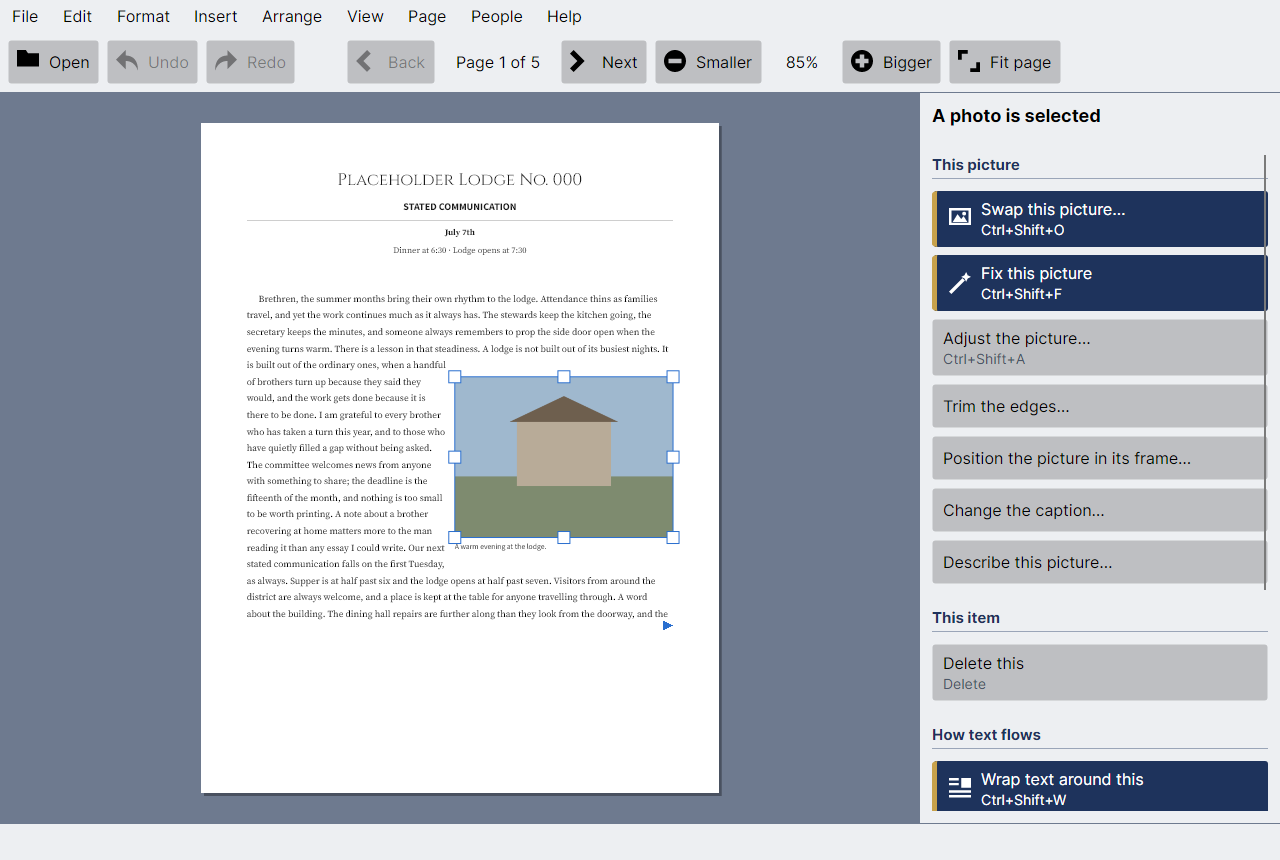
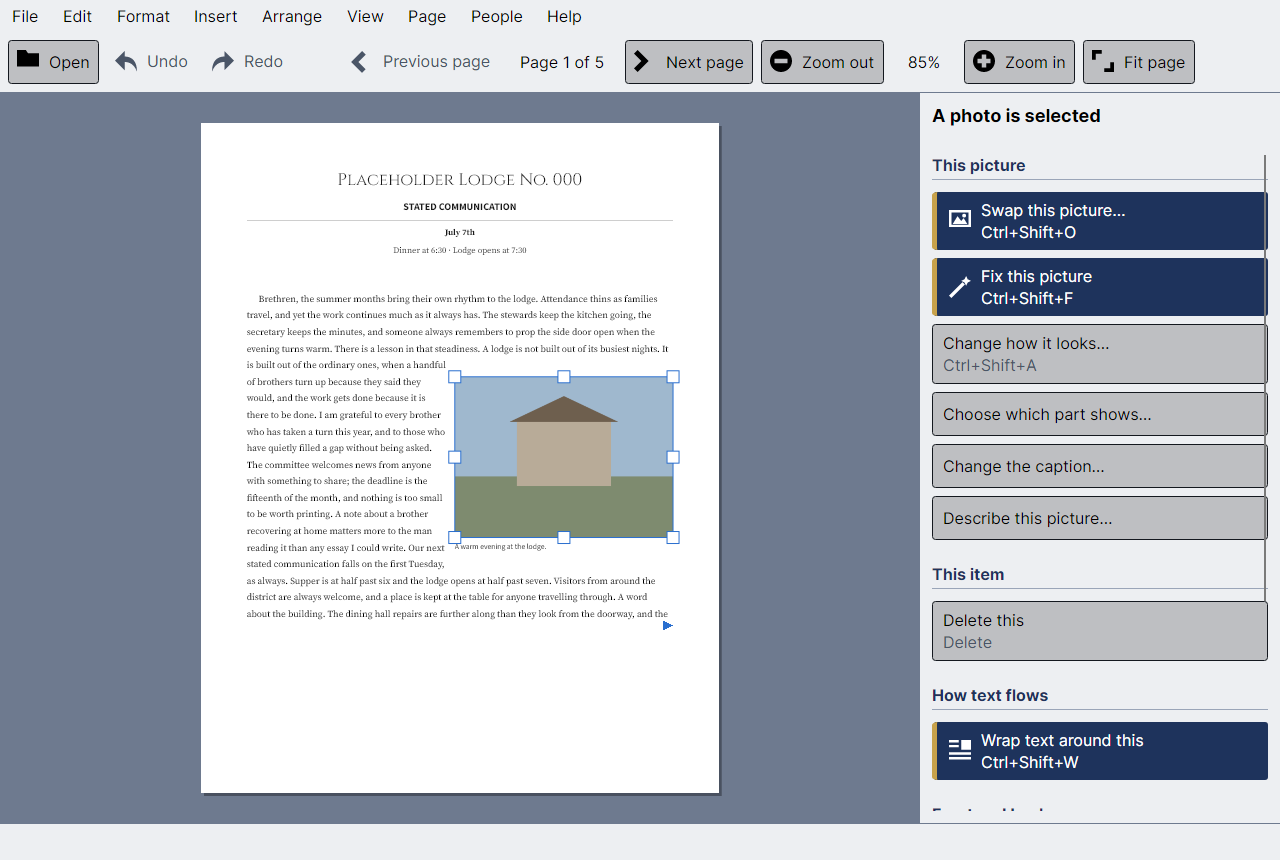
feat(M38): two picture verbs instead of four
The second of section 14.4's two owner decisions. Decided: merge the duplicate,
rename the survivors.

The finding was understated. The review called them "four near-synonym picture
verbs"; reading the code, two of them opened the SAME window --
TrimPictureAsync is ShowAdjustWindowAsync(startOnTrim: true), identical dialog,
different control focused. So the five geometry-and-appearance entries in "This
picture" were really three things, and the Adjust window already held
brightness, contrast, colour, rotate, all four trim sliders AND a button
through to Position. Every verb landed inside it or beside it.

"Trim the edges..." is retired as a command. It was a second door onto a window
that already carries a "Trim the edges" heading inside it, so the words remain
findable for anyone who scans for them -- they are just no longer a separate
thing to choose between.

The survivors are named for the outcome rather than the operation, because
"Fix" and "Adjust" are near-synonyms in English and gave no clue which did
what. "Adjust the picture..." becomes "Change how it looks..."; "Position the
picture in its frame..." becomes "Choose which part shows..."; "Fix this
picture" is unchanged, because it is the one-press path and Fix is right for
it. The wording follows through into the windows themselves, so nothing is
called two things: the Adjust window's title, its Position button, and the
Position window's own title all move with it.
[…]

Changed region(s): [[0.7188, 0.2116, 1.0, 0.9674], [0.0625, 0.0302, 0.9375, 0.1209], [0.7188, 0.1814, 0.8125, 0.2116]]

diff --git a/src/TrestleBoard.Editing/Actions/ActionCatalog.cs b/src/TrestleBoard.Editing/Actions/ActionCatalog.cs
@@ -151,12 +151,23 @@ public static class ActionCatalog
             ActionGroup.Picture, "Ctrl+Shift+O", IsPrimary: true),
         new(ActionId.FixPhoto, "Fix this picture", "Crops it to the frame and brightens it in one step.",
             ActionGroup.Picture, "Ctrl+Shift+F", IsPrimary: true),
-        new(ActionId.AdjustPhoto, "Adjust the picture…", "Opens the sliders for brightness, contrast and colour.",
+        // M38: these two names describe the OUTCOME rather than the operation, and there are two of
+        // them rather than three.
+        //
+        // "Adjust the picture…" and "Trim the edges…" were separate entries that opened the SAME
+        // window — TrimPictureAsync is ShowAdjustWindowAsync(startOnTrim: true), identical dialog,
+        // different focus target. Two names for one door is most of what "four near-synonym picture
+        // verbs" meant (review §14.4). The trim sliders keep their own heading INSIDE the window, so
+        // anybody scanning for the word still finds it.
+        //
+        // "Adjust" and "Fix" are near-synonyms in English and gave no clue which did what. They now
+        // read as a pair: Fix does it for you, Change how it looks lets you do it.
+        new(ActionId.AdjustPhoto, "Change how it looks…",
+            "Brightness, colour, turning it, and taking the edges off.",
             ActionGroup.Picture, "Ctrl+Shift+A"),
-        new(ActionId.TrimPicture, "Trim the edges…", "Takes the edges off without changing the original file.",
+        new(ActionId.PositionPicture, "Choose which part shows…",
+            "Slides the picture inside its frame without changing how much of it shows.",
             ActionGroup.Picture),
-        new(ActionId.PositionPicture, "Position the picture in its frame…",
-            "Slides the picture around without changing its crop size.", ActionGroup.Picture),
         new(ActionId.DismissCropNotice, "Dismiss this note",
             "Hides the stretched-picture warning until the frame changes shape again.",
             ActionGroup.Picture),
@@ -481,7 +492,7 @@ public static class ActionCatalog
                 context.Selection == SelectionKind.Photo
                     ? ActionAvailability.Available
                     : ActionAvailability.NotApplicable(NeedsPicture),
-            ActionId.FixPhoto or ActionId.AdjustPhoto or ActionId.TrimPicture
+            ActionId.FixPhoto or ActionId.AdjustPhoto
                 or ActionId.PositionPicture or ActionId.CaptionPicture => context.Selection != SelectionKind.Photo
                 ? ActionAvailability.NotApplicable(NeedsPicture)
                 : context.SelectedPictureIsEmpty

diff --git a/src/TrestleBoard.App/Dialogs/PhotoAdjustWindow.cs b/src/TrestleBoard.App/Dialogs/PhotoAdjustWindow.cs
@@ -53,7 +53,7 @@ public sealed class PhotoAdjustWindow : Window
         _blockId = blockId;
         _undoMark = photos.UndoDepth;
 
-        Title = "Adjust the picture";
+        Title = "Change how the picture looks";
         SizeToContent = SizeToContent.WidthAndHeight;
         WindowStartupLocation = WindowStartupLocation.CenterOwner;
         CanResize = false;
@@ -108,7 +108,7 @@ public sealed class PhotoAdjustWindow : Window
 
         // M22: re-centring an already-sized crop is a separate step from resizing one — opening it
         // from here, rather than only from the action panel, keeps the two discoverable together.
-        var position = new Button { Content = "Position…", FontSize = 18, MinHeight = 44, MinWidth = 140 };
+        var position = new Button { Content = "Which part shows…", FontSize = 18, MinHeight = 44, MinWidth = 200 };
         position.Action();
         position.Click += async (_, _) =>
         {
@@ -116,7 +116,7 @@ public sealed class PhotoAdjustWindow : Window
             await window.ShowDialog(this);
             LoadFromDocument();
         };
-        Avalonia.Automation.AutomationProperties.SetName(position, "Position the picture in its frame");
+        Avalonia.Automation.AutomationProperties.SetName(position, "Choose which part of the picture shows");
 
         var done = new Button
         {

diff --git a/src/TrestleBoard.Editing/Actions/ActionId.cs b/src/TrestleBoard.Editing/Actions/ActionId.cs
@@ -88,7 +88,19 @@ public static class ActionId
     /// <summary>M18: the words printed under the picture.</summary>
     public const string CaptionPicture = "picture.caption";
 
-    /// <summary>M18: take the edges off the picture without touching the original file.</summary>
+    /// <summary>
+    /// M18: take the edges off the picture without touching the original file.
+    ///
+    /// <para><b>Retired as a command at M38 and kept only as a name.</b> It was a second entry
+    /// point onto the SAME window as <see cref="AdjustPhoto"/> — <c>TrimPictureAsync</c> was
+    /// <c>ShowAdjustWindowAsync(startOnTrim: true)</c>, identical dialog, different focus target —
+    /// and two names for one door was most of what the review's "four near-synonym picture verbs"
+    /// meant (§14.4). The trim sliders still carry their own heading inside that window.</para>
+    ///
+    /// <para>The constant stays because a `.tboard` never referenced it and no user setting holds
+    /// it, but deleting an id outright makes the history unreadable to the next person who greps
+    /// for "picture.trim" and finds nothing.</para>
+    /// </summary>
     public const string TrimPicture = "picture.trim";
 
     /// <summary>M22: pan/recentre the already-sized crop window without changing its size.</summary>

diff --git a/tests/Editing.Tests/ActionCatalogTests.cs b/tests/Editing.Tests/ActionCatalogTests.cs
@@ -587,7 +587,7 @@ public sealed class ActionCatalogTests
 
         foreach (string id in new[]
                  {
-                     ActionId.FixPhoto, ActionId.AdjustPhoto, ActionId.TrimPicture,
+                     ActionId.FixPhoto, ActionId.AdjustPhoto,
                      ActionId.PositionPicture, ActionId.CaptionPicture,
                  })
         {
@@ -598,10 +598,11 @@ public sealed class ActionCatalogTests
             Assert.Equal(ActionId.ReplacePicture, availability.RemedyId);
         }
 
-        // With a picture in it, all four are simply available.
+        // With a picture in it, they are simply available. (M38 merged picture.trim into
+        // picture.adjust — it was a second door onto the same window.)
         foreach (string id in new[]
                  {
-                     ActionId.FixPhoto, ActionId.AdjustPhoto, ActionId.TrimPicture,
+                     ActionId.FixPhoto, ActionId.AdjustPhoto,
                      ActionId.PositionPicture, ActionId.CaptionPicture,
                  })
         {

diff --git a/src/TrestleBoard.App/Theme/ActionIcons.cs b/src/TrestleBoard.App/Theme/ActionIcons.cs
@@ -127,8 +127,7 @@ internal static class ActionIcons
 
         // M18's other three. Each is words about a picture rather than an act on one, and the
         // pictures that would say "caption" or "description" are the words themselves.
-        [ActionId.TrimPicture] = "a crop rectangle is indistinguishable from picture.fix's wand at 20px",
-        [ActionId.PositionPicture] = "a crosshair/move glyph is indistinguishable from picture.trim's crop at 20px",
+        [ActionId.PositionPicture] = "a crosshair reads as a target, not as 'which part of it shows'",
         [ActionId.DismissCropNotice] = "a sentence about a warning, not a shape",
         [ActionId.CaptionPicture] = "the words under a picture cannot be drawn as a picture",
         [ActionId.DescribePicture] = "spoken, never drawn — there is no shape for what is said aloud",

diff --git a/src/TrestleBoard.App/Actions/ActionRunner.cs b/src/TrestleBoard.App/Actions/ActionRunner.cs
@@ -81,7 +81,6 @@ internal sealed class ActionRunner
             [ActionId.FixPhoto] = Sync(window.FixPhoto),
             [ActionId.AdjustPhoto] = _ => window.AdjustPhotoAsync(),
             [ActionId.ReplacePicture] = _ => window.ReplacePictureAsync(),
-            [ActionId.TrimPicture] = _ => window.TrimPictureAsync(),
             [ActionId.PositionPicture] = _ => window.PositionPictureAsync(),
             [ActionId.DismissCropNotice] = Sync(window.DismissCropNotice),
             [ActionId.CaptionPicture] = _ => window.CaptionPictureAsync(),

diff --git a/src/TrestleBoard.App/Dialogs/PositionPhotoWindow.cs b/src/TrestleBoard.App/Dialogs/PositionPhotoWindow.cs
@@ -54,7 +54,7 @@ public sealed class PositionPhotoWindow : Window
         _photos = photos ?? throw new ArgumentNullException(nameof(photos));
         _blockId = blockId;
 
-        Title = "Position the picture";
+        Title = "Which part of the picture shows";
         SizeToContent = SizeToContent.WidthAndHeight;
         WindowStartupLocation = WindowStartupLocation.CenterOwner;
         CanResize = false;

diff --git a/docs/M38-spec.md b/docs/M38-spec.md
@@ -1,0 +1,88 @@
+# M38 — Two picture verbs, not four
+
+**Delivered 2026-08-07.** The second of §14.4's two owner decisions. Decided: **merge the duplicate,
+rename the survivors.**
+
+---
+
+## 1. The finding was understated
+
+The review called them "four near-synonym picture verbs in one panel". Reading the code, it was
+worse than synonymy — **two of the four opened the same window**:
+
+```csharp
+internal async Task AdjustPhotoAsync() => await ShowAdjustWindowAsync(startOnTrim: false);
+internal async Task TrimPictureAsync()  => await ShowAdjustWindowAsync(startOnTrim: true);
+```
+
+Identical dialog. The only difference is which control gets focus.
+
+So "This picture" offered five geometry-and-appearance entries that were really **three things**:
+
+| Entry | Reality |
+| --- | --- |
+| Swap this picture… | file picker |
+| Fix this picture | instant: auto-crop to frame + auto-levels, one undo step |
+| Adjust the picture… | `PhotoAdjustWindow`, focus on brightness |
+| Trim the edges… | **the same `PhotoAdjustWindow`**, focus on trim |
+| Position the picture in its frame… | `PositionPhotoWindow` — *also* reachable from a button inside the Adjust window |
+
+That window already contains brightness, contrast, colour, rotate, all four trim sliders **and** a
+button through to Position. Every one of the verbs lands inside it or beside it.
+
+## 2. What changed
+
+**"Trim the edges…" is gone as a command.** It was a second door onto a window that already has a
+"Trim the edges" heading inside it, so the words are still there for anyone who scans for them —
+they are just no longer a separate thing to choose between.
+
+**The survivors are named for the outcome, not the operation.** "Fix" and "Adjust" are near-synonyms
+in English and gave no clue which did what; they now read as a pair.
+
+| Was | Is | Why |
+| --- | --- | --- |
+| Adjust the picture… | **Change how it looks…** | brightness, colour, turning, trimming — all of it is how it *looks* |
+| Position the picture in its frame… | **Choose which part shows…** | says what the user gets, not what the app does to a crop rectangle |
+| Fix this picture | *unchanged* | it is the one-press path, and "Fix" is right for it |
+
+The wording follows through into the windows themselves, so nothing is called two things:
+`PhotoAdjustWindow`'s title becomes "Change how the picture looks", its Position button becomes
+"Which part shows…", and `PositionPhotoWindow`'s title becomes "Which part of the picture shows".
+
+Panel: **five entries down to four**, and the two that remain do visibly different jobs.
+
+**M22's decision stands.** Position is still a top-level command with its own window — that
+milestone's whole point was that positioning a crop is not resizing one, and nothing here
+contradicts it.
+
+## 3. The access-key trap
+
+`Choose which part _shows…` clashed with `_Swap this picture…` on **S** — and the clash is only
+visible at runtime, because that header is rewritten by `RefreshActions` from "Put a picture here…"
+to "Swap this picture…" when the frame holds a photograph.
+
+`AccessibilityTests.NoTwoItemsInOneMenuShareAnAccessKey` caught it, which is what that test is for.
+The key moved to **W**.
+
+## 4. What happened to the id
+
+`ActionId.TrimPicture` is **kept as a constant** and documented as retired. No `.tboard` ever
+referenced it and no user setting holds it, so deleting it would be safe — but deleting an id
+outright makes the history unreadable to the next person who greps for `picture.trim` and finds
+nothing at all.
+
+Removed from: the catalog's entry list, `ActionRunner`'s handler map, `ActionIcons`' icon-less
+record, and the availability rule that grouped it with Fix and Adjust.
+
+## 5. What guards it
+
+- `IconTests.EveryActionEitherHasAnIconOrIsListedAsIconLess` — the two icon sets must partition the
+  catalog exactly, so removing a command from the catalog without removing its icon record fails.
+- `ActionSurfaceTests.EveryActionThePanelOffersIsEitherPerformableOrExplained` — every offered
+  action must have a handler, so removing the handler without removing the offer fails.
+- `AccessibilityTests.NoTwoItemsInOneMenuShareAnAccessKey` — caught the S clash.
+- `ActionCatalogTests.AnEmptyPictureFrameCanBeFilledButNotAdjusted` updated to the four survivors.
+
+Screenshots regenerated: `action-panel-photo`, `fix-photo`, `position-photo`.
+
+Suite after M38: **1185 passing, 12 skipped**. No snapshot baseline moved.

diff --git a/PLAN.md b/PLAN.md
@@ -2140,8 +2140,31 @@ insides of every ScrollBar and ComboBox - and what makes opting in un-forgettabl
 walks the window and fails on any app-made button carrying neither treatment. It found all sixteen
 misses on its first run.
 
-**Grouping 4: only the picture-verb consolidation and the jargon list remain. Grouping 5 is part
-done.**
+### M38 - Two picture verbs, not four (delivered 2026-08-07, `docs/M38-spec.md`)
+
+The second of section 14.4's two owner decisions. Decided: merge the duplicate, rename the survivors.
+
+The finding was understated. "Adjust the picture..." and "Trim the edges..." were not merely
+near-synonyms - `TrimPictureAsync` was `ShowAdjustWindowAsync(startOnTrim: true)`, the SAME window
+with a different control focused. So five entries in "This picture" were really three things, and
+the Adjust window already held brightness, colour, rotate, all four trim sliders AND a button
+through to Position.
+
+"Trim the edges..." is retired as a command; the trim sliders keep their heading inside the window,
+so the words are still findable. The survivors are named for the outcome: "Adjust the picture..."
+becomes "Change how it looks...", "Position the picture in its frame..." becomes "Choose which part
+shows...", and "Fix this picture" is unchanged because it is the one-press path and "Fix" is right
+for it. The wording follows into the windows themselves, so nothing is called two things. M22's
+decision stands - positioning a crop is still its own top-level command.
+
+`ActionId.TrimPicture` is kept as a constant and documented as retired: nothing on disk references
+it, but deleting an id outright makes the history unreadable to whoever greps for it next.
+
+The access key clashed with "Swap this picture..." on S - visible only at runtime, because that
+header is rewritten when the frame holds a photograph. `NoTwoItemsInOneMenuShareAnAccessKey` caught
+it, which is what that test is for.
+
+**Grouping 4: only the jargon list remains. Grouping 5 is part done.**
 
 ---
 
@@ -2723,9 +2746,11 @@ Minor = edge case or annoyance. PLAUSIBLE = argued, not reproduced.
 - ~~**"Smaller / Bigger" means zoom in the toolbar and point size in the font window** — same words,
   different effects, both prominent.~~ — **fixed at M27**; the toolbar now uses the catalog's words
   and a test compares every toolbar label against it.
-- **Four near-synonym picture verbs in one panel**: "Fix this picture", "Adjust the picture…",
-  "Trim the edges…", "Position the picture in its frame…" (plus "Swap"). The Adjust window then
-  *contains* trim sliders and a "Position…" button — the same commands at a different level.
+- ~~**Four near-synonym picture verbs in one panel**~~ - **fixed at M38.** Worse than synonymy:
+  "Adjust the picture..." and "Trim the edges..." opened the SAME window, differing only in
+  which control took focus. Five entries were three things. Now four, named for the outcome -
+  Fix / Change how it looks / Choose which part shows - with the wording following into the
+  windows so nothing is called two things.
 - ~~**The position dialog contradicts itself**: the instruction says "The crop stays the same size —
   this only moves it" while the dialog offers Zoom out/Zoom in; the text names a "blue crop
   window" but the crop rectangle is drawn black.~~ — **fixed at M27**.
@@ -2794,8 +2819,8 @@ hang, and the whole of §14.2's Minor list bar two entries.
    a border marks what can be pressed. The `ControlTheme` is opted into with `Tokens.Action()`,
    and a test that walks the window makes a miss fail the build rather than ship looking
    disabled.
-2. **Consolidating the four picture verbs** ("Fix", "Adjust", "Trim", "Position"). Information
-   architecture, not a rename. Same reason.
+2. ~~**Consolidating the four picture verbs.**~~ - **decided by the owner and closed at M38**:
+   the duplicate entry point was merged and the survivors renamed for the outcome.
 3. ~~**Selection chrome ignores the theme.**~~ — **closed at M34**, by passing a colour SET in from
    the shell rather than letting the renderer read a palette it should not know about.
 4. ~~**The ligature caret** (`TextLayoutEngine.cs:552`, confirmed Major).~~ — **closed at M32**,
